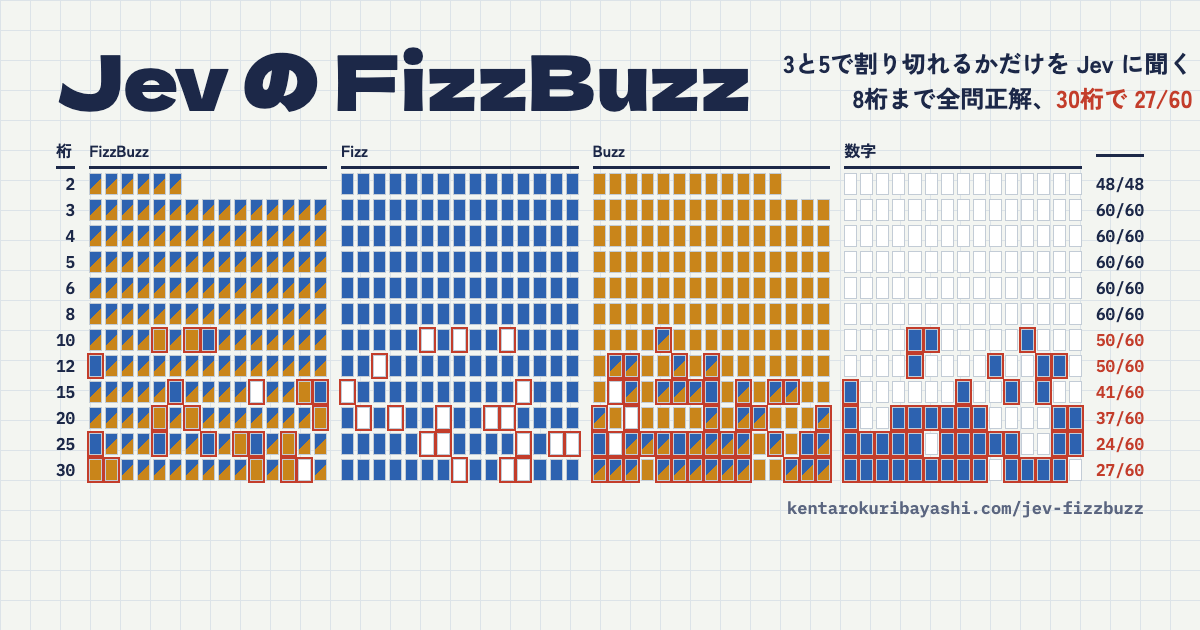
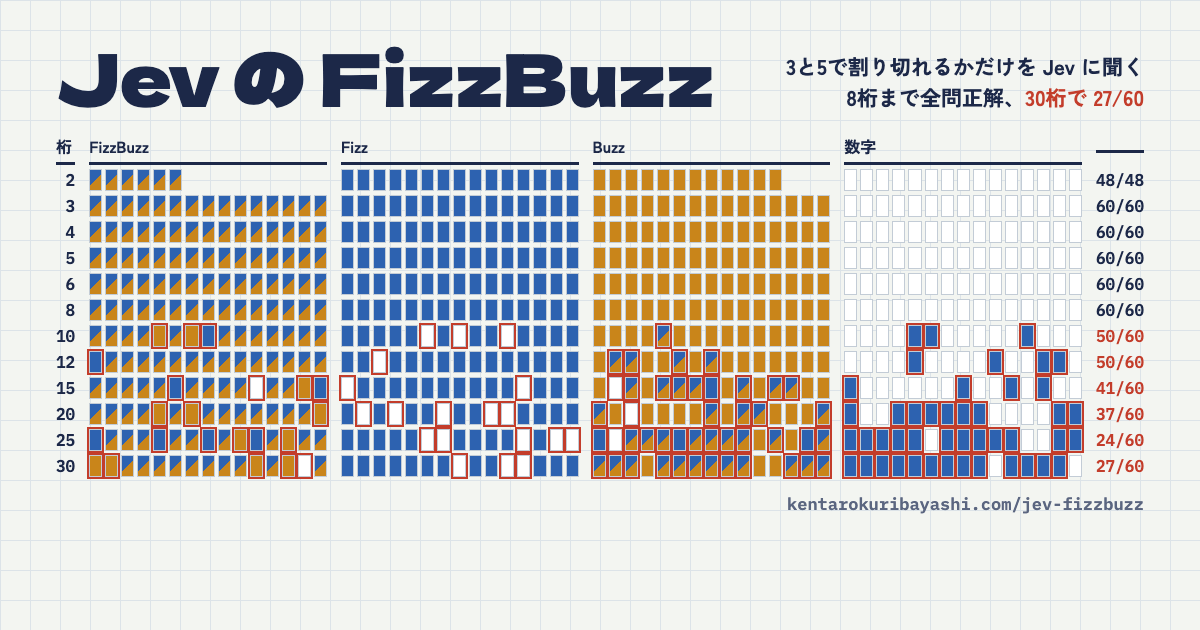
OG 画像の説明文を枠内に収める

Changed region(s): [[0.0308, 0.2111, 0.9558, 0.8143], [0.0308, 0.0603, 0.6475, 0.181], [0.6475, 0.0603, 1.0, 0.181]]

diff --git a/og.tpl.html b/og.tpl.html
@@ -6,8 +6,8 @@
 html,body{margin:0;width:1200px;height:630px;overflow:hidden}
 body{background-color:var(--paper);background-image:linear-gradient(var(--grid) 1px,transparent 1px),linear-gradient(90deg,var(--grid) 1px,transparent 1px);background-size:30px 30px;color:var(--ink);font-family:"Zen Kaku Gothic New",sans-serif;box-sizing:border-box;padding:40px 56px 36px;display:flex;flex-direction:column;gap:22px}
 .l{display:flex;align-items:flex-end;justify-content:space-between;gap:32px}
-h1{font-family:"Dela Gothic One",sans-serif;font-weight:400;font-size:76px;line-height:1;margin:0;white-space:nowrap}
-.sub{font-size:24px;line-height:1.45;text-align:right;white-space:nowrap}
+h1{font-family:"Dela Gothic One",sans-serif;font-weight:400;font-size:72px;line-height:1;margin:0;white-space:nowrap}
+.sub{font-size:21px;line-height:1.45;text-align:right;white-space:nowrap}
 .sub b{color:var(--pencil)}
 .url{font-family:"IBM Plex Mono",monospace;font-size:17px;color:var(--soft);text-align:right;margin-top:-6px}
 .r{display:grid;grid-template-columns:auto repeat(4,1fr) auto;gap:4px 14px;align-items:center}
